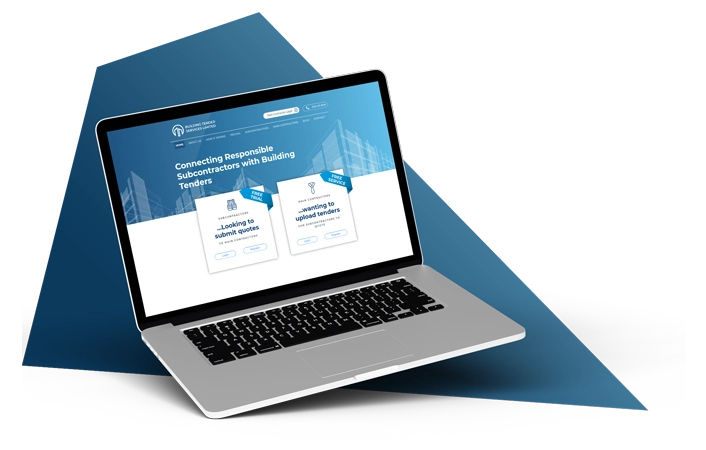
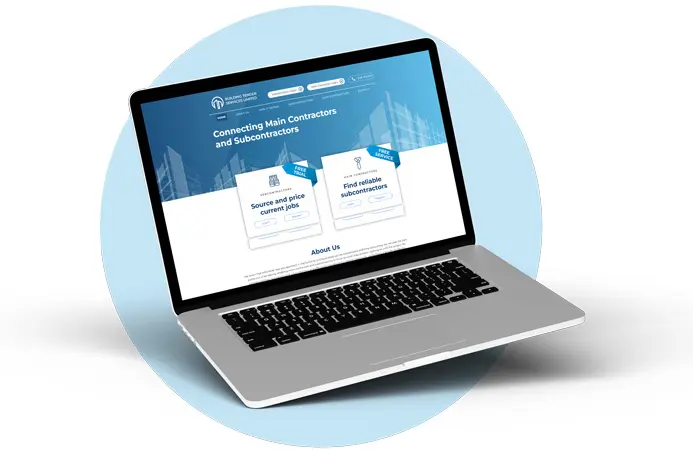
Adding TFB project

diff --git a/index.html b/index.html
@@ -64,7 +64,7 @@
               <h1 class="subhead pt-5">Website Design & Web Development Ireland</h1>
               <h2 class="py-3 m-0 fw-bolder display-1">Hey there,<br>My name is Logan</h2>
               <hr class="my-5 short-line" />
-              <p class="m-0">I'm a freelance front-end web developer and designer based in Dublin, Ireland.</p>
+              <p class="m-0">I'm a freelance frontend web developer and designer based in Dublin, Ireland.</p>
             </div>
           </div>
         </header>
@@ -78,18 +78,23 @@
             </div>
           </div>
 
-          <!-- BTSL NEW ZEALAND -->
           <div class="row my-5 pt-5 portfolio-item">
-
-            <div data-aos="fade-right" class="col-12 col-lg-6 order-2 order-lg-2">
-              <h3 class="mb-3">BTSL</h3>
+            
+            <!-- BTSL NEW ZEALAND -->
+            <div data-aos="fade-right" class="col-12 col-lg-5  offset-lg-1 order-2 order-lg-2">
+              <picture>
+                <source srcset="..\img\btsl-nz.webp" type="image/webp">
+                <source srcset="..\img\btsl-nz.jpg" type="image/jpeg"> 
+                <img src="..\img\btsl-nz.png" class="img-fluid mb-3" alt="BTSL New Zealand">
+              </picture>
+              <h3 class="mb-3">Building Tendering Service Ltd.</h3>
               <p>
-                BTSL are one of New Zealand's largest construction tendering sites. I worked with a back-end developer and a designer to update their platform.
+                BTSL are one of New Zealand's largest construction tendering sites providing a digital platform for contracters.
               </p>
               <div class="tech">
                 <p class="subhead">Technical Overview</p>
                 <p>
-                  I used a combination of HTML5, Bootstrap and custom CSS to create a range of front and back-end user interfaces including features like document uploads, document management and project searches. The UIs made use of modals and expandable elements to keep things clean and organised. The platform was updated onto the Laravel framework for both main-contractor and sub-contractor sites. 
+                  Bootstrap/SCSS and Javascript used to create user interfaces for features like document uploads/management and project searches. The UIs made use of modals and expandable elements for optimal organisation. 
                 </p>
                 <span>Technologies used</span>
                 <ul>
@@ -102,16 +107,36 @@
               </div>
             </div>
 
-            <div data-aos="fade-left" class="col-12 col-lg-6 altra order-1 order-lg-1">
+            <!-- THE FAT BADGER RESTAURANT -->
+            <div data-aos="fade-left" class="col-12 col-lg-5 order-1 order-lg-1">
               <picture>
-                <source srcset="..\img\btsl-nz.webp" type="image/webp">
-                <source srcset="..\img\btsl-nz.png" type="image/png"> 
-                <img src="..\img\btsl-nz.png" class="img-fluid" alt="BTSL New Zealand Text!">
+                <source srcset="..\img\the-fat-badger-restaurant.webp" type="image/webp">
+                <source srcset="..\img\the-fat-badger-restaurant.jpgp" type="image/jpeg"> 
+                <img src="..\img\the-fat-badger-restaurant.jpgp" class="img-fluid mb-3" alt="The Fat Badger Restaurant">
               </picture>
-              <div class="bg-object"></div>
+              <h3 class="mb-3">The Fat Badger Restaurant</h3>
+              <p>
+                The Fat Badger Restaurant is one of the many UK-based resturants owned and operated by the Gladwin Brothers.
+              </p>
+              <div class="tech">
+                <p class="subhead">Technical Overview</p>
+                <p>
+                  These site uses WEPB image formats to reduce load time and OWL carosels for responsive galleries. The structure is HTML5, Bootstrap/Custom CSS and jaavscript behaviours for desktop and mobile. 
+                </p>
+                <span>Technologies used</span>
+                <ul>
+                  <li>HTML/SCSS</li>
+                  <li>OWL JS</li>
+                  <li>JavaScript</li>
+                  <li>Bootstrap</li>
+                </ul>
+                <a data-aos="fade-up" href="https://workdesk.btsl.co.nz/" class="btn btn-outline-dark rounded-0 text-uppercase mt-3 mb-5" target="_blank">View live project</a>
+              
             </div>
 
-          </div>
+            </div>
+
+          </div>  
 
           <hr class="my-5">
 

diff --git a/app.js b/app.js
@@ -35,7 +35,6 @@ const options = {
 const observer = new IntersectionObserver(function(entries, 
     observer) {
         entries.forEach (entry => {
-            console.log("el", el);
             entry.target.classList.toggle('draw-in');
         });
 }, options);
